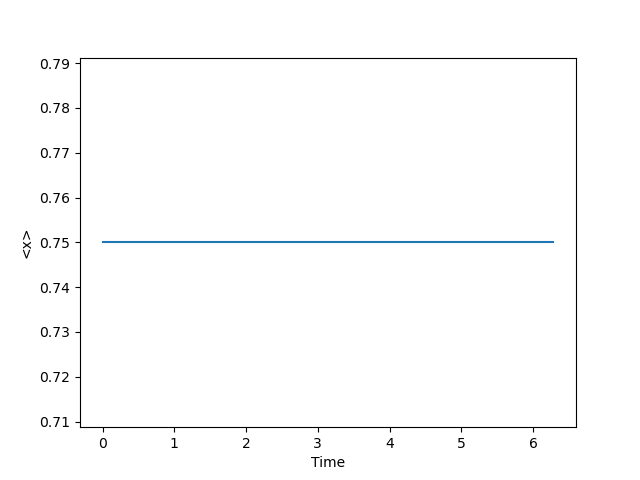
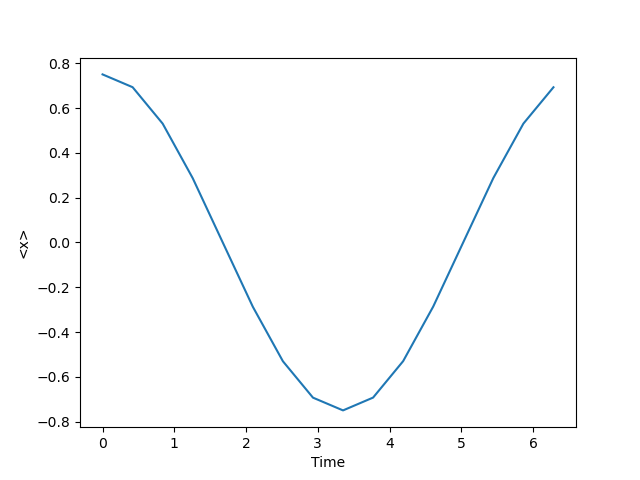
Added Corrections

diff --git a/main.py b/main.py
@@ -1,13 +1,14 @@
 from matplotlib import pyplot as plt
 import numpy as np
-from typing import Any
+from typing import Any, Callable
 
 from animate import animate
 
 
 PERIOD = 2 * np.pi
 EPSILON = PERIOD/128
-T_AXIS = np.linspace(0, PERIOD, 128)
+TIME_STEPS = 128
+T = np.linspace(0, PERIOD, TIME_STEPS)
 
 ALPHA = 2
 
@@ -17,7 +18,7 @@ X_MIN = -4
 X_MAX = 4
 PARTITIONS = 600
 DX = (X_MAX - X_MIN) / PARTITIONS
-X_AXIS = np.linspace(X_MIN, X_MAX, PARTITIONS + 1)[..., np.newaxis]
+X = np.linspace(X_MIN, X_MAX, PARTITIONS + 1)[..., np.newaxis]
 
 
 def psi_initial(x: np.ndarray[float, Any]) -> np.ndarray[complex, Any]:
@@ -25,11 +26,11 @@ def psi_initial(x: np.ndarray[float, Any]) -> np.ndarray[complex, Any]:
 
 
 def propagator_HO(t_b: float, t_a: float) -> np.ndarray[complex, Any]:
-    x_a = X_AXIS
-    x_b = X_AXIS
+    x_a = X
+    x_b = X
 
     return (
-        (2j * np.pi  * np.sin(t_b - t_a)) ** -0.5
+        (2j * np.pi * np.sin(t_b - t_a)) ** -0.5
         * np.exp(
             ((x_a ** 2 + x_b.T ** 2) * np.cos(t_b - t_a) - 2 * (x_a @ x_b.T))
             / (-2j * np.sin(t_b - t_a))
@@ -37,9 +38,8 @@ def propagator_HO(t_b: float, t_a: float) -> np.ndarray[complex, Any]:
     )
 
 
-def expectation_value(operator: np.ndarray[float, Any] | float, psi: np.ndarray[complex, Any]) -> float:
-    psi_pdf = np.abs(psi) ** 2
-    return np.sum(operator * psi_pdf) * DX  # type: ignore
+def integrate(integrand: np.ndarray[complex, Any], dx: float) -> complex:
+    return np.sum(integrand) * dx
 
 
 def problem_a(time_steps: int) -> np.ndarray[complex, Any]:
@@ -54,27 +54,30 @@ def problem_b(psi: np.ndarray[complex, Any], K: np.ndarray[complex, Any], steps:
     psi_current = psi
 
     for i in range(steps):
-        result[i] = expectation_value(X_AXIS, psi)
+        result[i] = integrate(X * np.abs(psi_current) ** 2, DX)
         psi_current = K @ psi_current * DX
 
     return result
 
 
 def problem_c(psi: np.ndarray[complex, Any], K: np.ndarray[complex, Any], steps: int) -> tuple[np.ndarray[float, Any], np.ndarray[float, Any], np.ndarray[float, Any]]:
-    potential = np.zeros(steps)
-    kinetic = np.zeros(steps)
-    energy = np.zeros(steps)
+    potential_energy = np.zeros(steps)
+    kinetic_energy = np.zeros(steps)
+    total_energy = np.zeros(steps)
     psi_current = psi
 
     for i in range(steps):
-        potential[i] = expectation_value(0.5 * X_AXIS**2, psi_current)
-        kinetic[i] = expectation_value(0.5, psi_current)
+        potential_energy[i] = integrate(0.5 * X ** 2 * np.abs(psi_current) ** 2, DX)
+
+        dpsi_dx = (psi_current[2:] - psi_current[:-2]) / (2 * DX)
+        dpsi_dx2 = np.abs(dpsi_dx) ** 2
+        kinetic_energy[i] = integrate(0.5 * dpsi_dx2, DX)
 
         psi_current = K @ psi_current * DX
 
-    energy = potential + kinetic
+    total_energy = potential_energy + kinetic_energy
 
-    return potential, kinetic, energy
+    return potential_energy, kinetic_energy, total_energy
 
 
 def problem_d(psi: np.ndarray[complex, Any], K: np.ndarray[complex, Any], steps: int) -> np.ndarray[float, Any]:
@@ -90,46 +93,54 @@ def problem_d(psi: np.ndarray[complex, Any], K: np.ndarray[complex, Any], steps:
 
 def problem_e(psi: np.ndarray[complex, Any], K: np.ndarray[complex, Any], steps: int) -> None:
     pdf_vs_time = problem_d(psi, K, steps)
-    animate(pdf_vs_time, X_AXIS)
+    animate(pdf_vs_time, X)
+
 
 def main() -> None:
-    psi_0 = psi_initial(X_AXIS)
+    psi_0 = psi_initial(X)
 
-    K_8eps = problem_a(8)
+    problem_a_steps = 8
+    K_8eps = problem_a(problem_a_steps)
 
     print("K_8eps:")
     print(K_8eps)
 
-    x_expectation = problem_b(psi_0, K_8eps, 16)
+    problem_b_steps = 16
+    x_expectation = problem_b(psi_0, K_8eps, problem_b_steps)
 
-    plt.plot(np.linspace(0, PERIOD, 16), x_expectation)
+    plt.plot(np.linspace(0, PERIOD, problem_b_steps), x_expectation)
     plt.xlabel("Time")
     plt.ylabel("<x>")
     plt.savefig("problem_b.png")
     plt.clf()
 
-    potential, kinetic, energy = problem_c(psi_0, K_8eps, 16)
+    problem_c_steps = 16
+    potential_energy, kinetic_energy, total_energy = problem_c(psi_0, K_8eps, problem_c_steps)
 
-    plt.plot(T_AXIS[::8], potential, label="V")
-    plt.plot(T_AXIS[::8], kinetic, label="K")
-    plt.plot(T_AXIS[::8], energy, label="E")
+    stride = int(TIME_STEPS / problem_c_steps)
+    t_axis = T[::stride]
+
+    for quantity, label in (
+        (potential_energy, "V"),
+        (kinetic_energy, "K"),
+        (total_energy, "E"),
+    ):
+        plt.plot(t_axis, quantity, label=label)
+
     plt.legend()
     plt.savefig("problem_c.png")
     plt.clf()
-    
 
-    pdf_vs_time = problem_d(psi_0, K_8eps, 8)
+    problem_d_steps = 8
+    pdf_vs_time = problem_d(psi_0, K_8eps, problem_d_steps)
 
     for row in pdf_vs_time:
-        plt.plot(X_AXIS, row)
+        plt.plot(X, row)
     plt.savefig("problem_d.png")
     plt.clf()
 
-    problem_e(psi_0, propagator_HO(EPSILON, 0), 128)
-
-
-
-
+    problem_e_steps = TIME_STEPS
+    problem_e(psi_0, propagator_HO(EPSILON, 0), problem_e_steps)
 
 
 if __name__ == "__main__":
